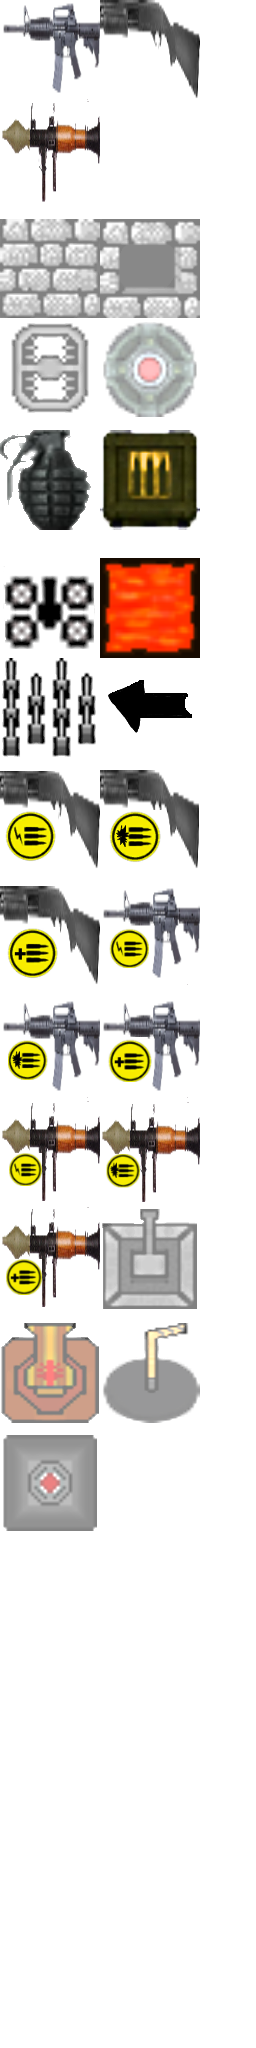
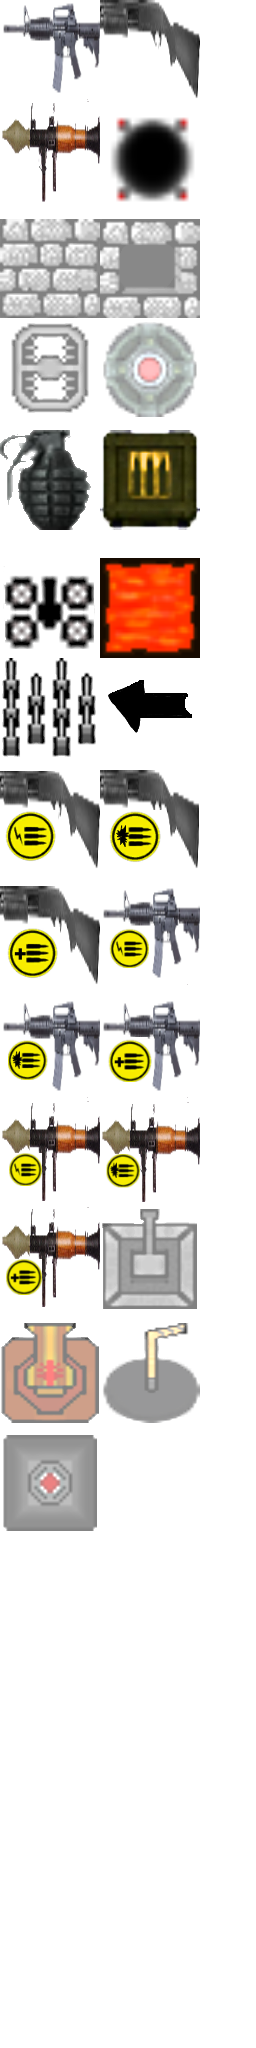
Hattrick picture, and shop pictures Removed Debug stuff.

Changed region(s): [[0.4375, 0.0312, 0.75, 0.125]]

diff --git a/source/GameplayState.cpp b/source/GameplayState.cpp
@@ -792,6 +792,7 @@ Player*	GameplayState::CreatePlayer(string _playerStatsFileName) const
 	m_hARThumb = pGraphics->LoadTexture("resource/images/hud/arthumb.png");
 	m_hRLPic = pGraphics->LoadTexture("resource/images/hud/rpg.png");
 	m_hRLThumb = pGraphics->LoadTexture("resource/images/hud/rpgthumb.png");
+	m_hFireAxeThumb = pGraphics->LoadTexture("resource/images/hud/hattrickThumb.png");
 	m_hBackground = pGraphics->LoadTexture("resource/images/menus/1405_RazorBalloon_CreditsMenu2.png");
 	m_hLosingBackground = pGraphics->LoadTexture("resource/images/menus/1405_RazorBalloon_GameOver.png");
 
@@ -971,10 +972,11 @@ Player*	GameplayState::CreatePlayer(string _playerStatsFileName) const
 	pGraphics->UnloadTexture(m_hARThumb);
 	pGraphics->UnloadTexture(m_hRLPic);
 	pGraphics->UnloadTexture(m_hRLThumb);
+	pGraphics->UnloadTexture(m_hFireAxeThumb);
 	pGraphics->UnloadTexture(m_hBackground);
 
 	// Unload Blank
-	pGraphics->UnloadTexture(m_hBackground);
+	//pGraphics->UnloadTexture(m_hBackground);
 
 	// Make sure pause isn't set
 	m_bIsPaused = false;
@@ -1868,9 +1870,11 @@ Player*	GameplayState::CreatePlayer(string _playerStatsFileName) const
 		}
 
 		// Render the FPS
+#if _DEBUG
 		string fps = "FPS: ";
 		fps += std::to_string(m_unFPS);
 		pGraphics->DrawString(fps.c_str(), { 20, 560 }, { 255, 0, 0 });
+#endif
 
 		// -- Render HUD --
 		if (!m_bIsPaused)
@@ -2024,9 +2028,9 @@ Player*	GameplayState::CreatePlayer(string _playerStatsFileName) const
 
 					// Hat Trick
 					if (player->HasHatTrick() && weapons[3].GetCurrAmmo() > 0)
-						pGraphics->DrawTextureSection(m_hBackground, { 455, 498 }, SGD::Rectangle({ 0, 0 }, SGD::Size(56, 57)));
+						pGraphics->DrawTextureSection(m_hFireAxeThumb, { 455, 498 }, SGD::Rectangle({ 0, 0 }, SGD::Size(56, 57)));
 					else if (player->HasHatTrick() && weapons[3].GetCurrAmmo() == 0)
-						pGraphics->DrawTextureSection(m_hBackground, { 455, 498 }, SGD::Rectangle({ 0, 0 }, SGD::Size(56, 57)), 0, {}, { 255, 0, 0 });
+						pGraphics->DrawTextureSection(m_hFireAxeThumb, { 455, 498 }, SGD::Rectangle({ 0, 0 }, SGD::Size(56, 57)), 0, {}, { 255, 0, 0 });
 
 					switch (player->GetCurrWeapon())
 					{

diff --git a/source/Game.cpp b/source/Game.cpp
@@ -164,8 +164,10 @@ int Game::Main(void)
 	}
 
 	// Toggle debugging mode
+#if _DEBUG
 	if (m_pInput->IsKeyPressed(SGD::Key::F1))
 		SetDebugging(!m_bDebugMode);
+#endif
 
 	
 #if !ARCADE_MODE
